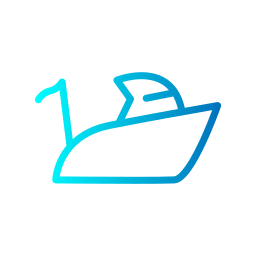
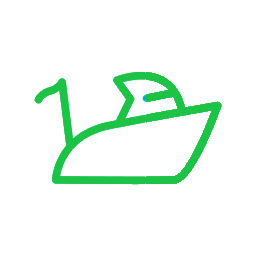
added theme color of our product

Changed region(s): [[0.125, 0.2812, 0.875, 0.7188]]

diff --git a/src/components/CardThree.tsx b/src/components/CardThree.tsx
@@ -2,15 +2,17 @@ const CardThree = () => {
   return (
     <div className="rounded-sm border border-stroke bg-white py-6 px-7.5 shadow-default dark:border-strokedark dark:bg-boxdark">
       <div className="flex h-11.5 w-11.5 items-center justify-center rounded-full bg-meta-2 dark:bg-meta-4">
-      <svg width="22" height="22" viewBox="0 0 22 22" fill="none" xmlns="http://www.w3.org/2000/svg" xmlns:xlink="http://www.w3.org/1999/xlink">
-<rect width="22" height="22" fill="url(#pattern0_715_3182)"/>
-<defs>
-<pattern id="pattern0_715_3182" patternContentUnits="objectBoundingBox" width="1" height="1">
-<use xlink:href="#image0_715_3182" transform="scale(0.00390625)"/>
-</pattern>
[1 lines of base64/hex data omitted]
-</defs>
-</svg>
+      <svg width="30" height="30" viewBox="0 0 30 30" fill="none" xmlns="http://www.w3.org/2000/svg" xmlnsXlink="http://www.w3.org/1999/xlink">
+      <rect width="30" height="30" fill="url(#pattern0_717_3184)"/>
+      <defs>
+      <pattern id="pattern0_717_3184" patternContentUnits="objectBoundingBox" width="1" height="1">
+      <use xlinkHref="#image0_717_3184" transform="scale(0.00390625)"/>
+      </pattern>
[1 lines of base64/hex data omitted]
+      </defs>
+      </svg>
+
+
 
       </div>
 

diff --git a/src/components/ChartTwo.tsx b/src/components/ChartTwo.tsx
@@ -2,79 +2,86 @@ import { ApexOptions } from 'apexcharts';
 import React, { useState } from 'react';
 import ReactApexChart from 'react-apexcharts';
 
-const getColor = (visitors: number, capacity: number) => {
-  const percentage = (visitors / capacity) * 100;
-  console.log(percentage);
-  if (percentage < 85) {
-    return '#00E396'; // Green: under 50% capacity
-  } else if (percentage >= 85 && percentage <= 90) {
-    return '#FEB019'; // Yellow: 50%-75% capacity
-  } else if (percentage > 90 && percentage <= 130) {
-    return '#FF4560'; // Red: 75%-100% capacity
-  } else {
-    return '#775DD0'; // Purple: over capacity
-  }
-};
-
-const ChartTwo: React.FC = () => {
-  const visitors = [7098, 12546, 9644, 13534, 10867, 12546, 8954];
-  const capacity = [8000, 8000, 8000, 8000, 8000, 8000, 8000];
-
-  const colors = visitors.map((visitor, index) => getColor(visitor, capacity[index]));
-
-  const options: ApexOptions = {
-    chart: {
-      fontFamily: 'Satoshi, sans-serif',
-      type: 'bar',
-      height: 335,
-      stacked: false,
-      toolbar: {
-        show: false,
-      },
-      zoom: {
-        enabled: false,
-      },
+const options: ApexOptions = {
+  colors: ['#3C50E0', '#80CAEE'],
+  chart: {
+    fontFamily: 'Satoshi, sans-serif',
+    type: 'bar',
+    height: 335,
+    stacked: false,
+    toolbar: {
+      show: false,
     },
-    colors: colors, // Apply dynamic colors here
-    plotOptions: {
-      bar: {
-        horizontal: false,
-        borderRadius: 0,
-        columnWidth: '25%',
-        borderRadiusApplication: 'end',
-      },
-    },
-    dataLabels: {
+    zoom: {
       enabled: false,
     },
-    xaxis: {
-      categories: ['M', 'T', 'W', 'T', 'F', 'S', 'S'],
-    },
-    legend: {
-      position: 'top',
-      horizontalAlign: 'left',
-      fontFamily: 'Satoshi',
-      fontWeight: 500,
-      fontSize: '14px',
-      markers: {
-        radius: 99,
+  },
+
+  responsive: [
+    {
+      breakpoint: 1536,
+      options: {
+        plotOptions: {
+          bar: {
+            borderRadius: 0,
+            columnWidth: '25%',
+          },
+        },
       },
     },
-    fill: {
-      opacity: 1,
+  ],
+  plotOptions: {
+    bar: {
+      horizontal: false,
+      borderRadius: 0,
+      columnWidth: '25%',
+      borderRadiusApplication: 'end',
+      borderRadiusWhenStacked: 'last',
     },
-  };
+  },
+  dataLabels: {
+    enabled: false,
+  },
 
-  const series = [
-    {
-      name: 'Visitors',
-      data: visitors,
+  xaxis: {
+    categories: ['M', 'T', 'W', 'T', 'F', 'S', 'S'],
+  },
+  legend: {
+    position: 'top',
+    horizontalAlign: 'left',
+    fontFamily: 'Satoshi',
+    fontWeight: 500,
+    fontSize: '14px',
+
+    markers: {
+      radius: 99,
     },
-    {
-      name: 'Capacity',
-      data: capacity,
-    },
-  ];
+  },
+  fill: {
+    opacity: 1,
+  },
+};
+
+interface ChartTwoState {
+  series: {
+    name: string;
+    data: number[];
+  }[];
+}
+
+const ChartTwo: React.FC = () => {
+  const [state, setState] = useState<ChartTwoState>({
+    series: [
+      {
+        name: 'Visitors',
+        data: [7098, 12546, 9644, 13534,10867, 12546, 8954],
+      },
+      {
+        name: 'Capacity',
+        data: [8000, 8000, 8000, 8000, 8000, 8000, 8000],
+      },
+    ],
+  });
 
   return (
     <div className="col-span-12 rounded-sm border border-stroke bg-white p-7.5 shadow-default dark:border-strokedark dark:bg-boxdark xl:col-span-4">
@@ -109,7 +116,7 @@ const ChartTwo: React.FC = () => {
                 <path
                   fillRule="evenodd"
                   clipRule="evenodd"
-                  d="M1.22659 0.546578L5.00141 4.09604L8.76422 0.557869C9.08459 0.244537 9.54201 0.329403 9.79139 0.578788C10.112 0.899434 10.0277 1.36122 9.77668 1.61224L9.76644 1.62248L5.81552 5.33722C5.36257 5.74249 4.6445 5.7544 4.19352 5.32924C4.19327 5.32901 4.19377 5.32948 4.19352 5.32924L0.225953 1.61241C0.102762 1.48922 -4.20186e-08 1.31674 -3.20269e-08 1.08816C-2.40601e-08 0.905899 0.0780105 0.712197 0.211421 0.578787C0.494701 0.295506 0.935574 0.297138 1.21836 0.539529L1.22659 0.546578ZM4.51598 4.98632C4.78076 5.23639 5.22206 5.23639 5.50155 4.98632L9.44383 1.27939C9.5468 1.17642 9.56151 1.01461 9.45854 0.911642C9.35557 0.808672 9.19376 0.793962 9.09079 0.896932L5.14851 4.60386C5.06025 4.67741 4.92785 4.67741 4.85431 4.60386L0.912022 0.896932C0.809051 0.808672 0.647241 0.808672 0.54427 0.911642C0.500141 0.955772 0.47072 1.02932 0.47072 1.08816Z"
+                  d="M1.22659 0.546578L5.00141 4.09604L8.76422 0.557869C9.08459 0.244537 9.54201 0.329403 9.79139 0.578788C10.112 0.899434 10.0277 1.36122 9.77668 1.61224L9.76644 1.62248L5.81552 5.33722C5.36257 5.74249 4.6445 5.7544 4.19352 5.32924C4.19327 5.32901 4.19377 5.32948 4.19352 5.32924L0.225953 1.61241C0.102762 1.48922 -4.20186e-08 1.31674 -3.20269e-08 1.08816C-2.40601e-08 0.905899 0.0780105 0.712197 0.211421 0.578787C0.494701 0.295506 0.935574 0.297138 1.21836 0.539529L1.22659 0.546578ZM4.51598 4.98632C4.78076 5.23639 5.22206 5.23639 5.50155 4.98632L9.44383 1.27939C9.5468 1.17642 9.56151 1.01461 9.45854 0.911642C9.35557 0.808672 9.19376 0.793962 9.09079 0.896932L5.14851 4.60386C5.06025 4.67741 4.92785 4.67741 4.85431 4.60386L0.912022 0.896932C0.809051 0.808672 0.647241 0.808672 0.54427 0.911642C0.500141 0.955772 0.47072 1.02932 0.47072 1.08816C0.47072 1.16171 0.50014 1.22055 0.558981 1.27939L4.51598 4.98632Z"
                   fill="#637381"
                 />
               </svg>
@@ -122,7 +129,7 @@ const ChartTwo: React.FC = () => {
         <div id="chartTwo" className="-ml-5 -mb-9">
           <ReactApexChart
             options={options}
-            series={series}
+            series={state.series}
             type="bar"
             height={350}
           />
